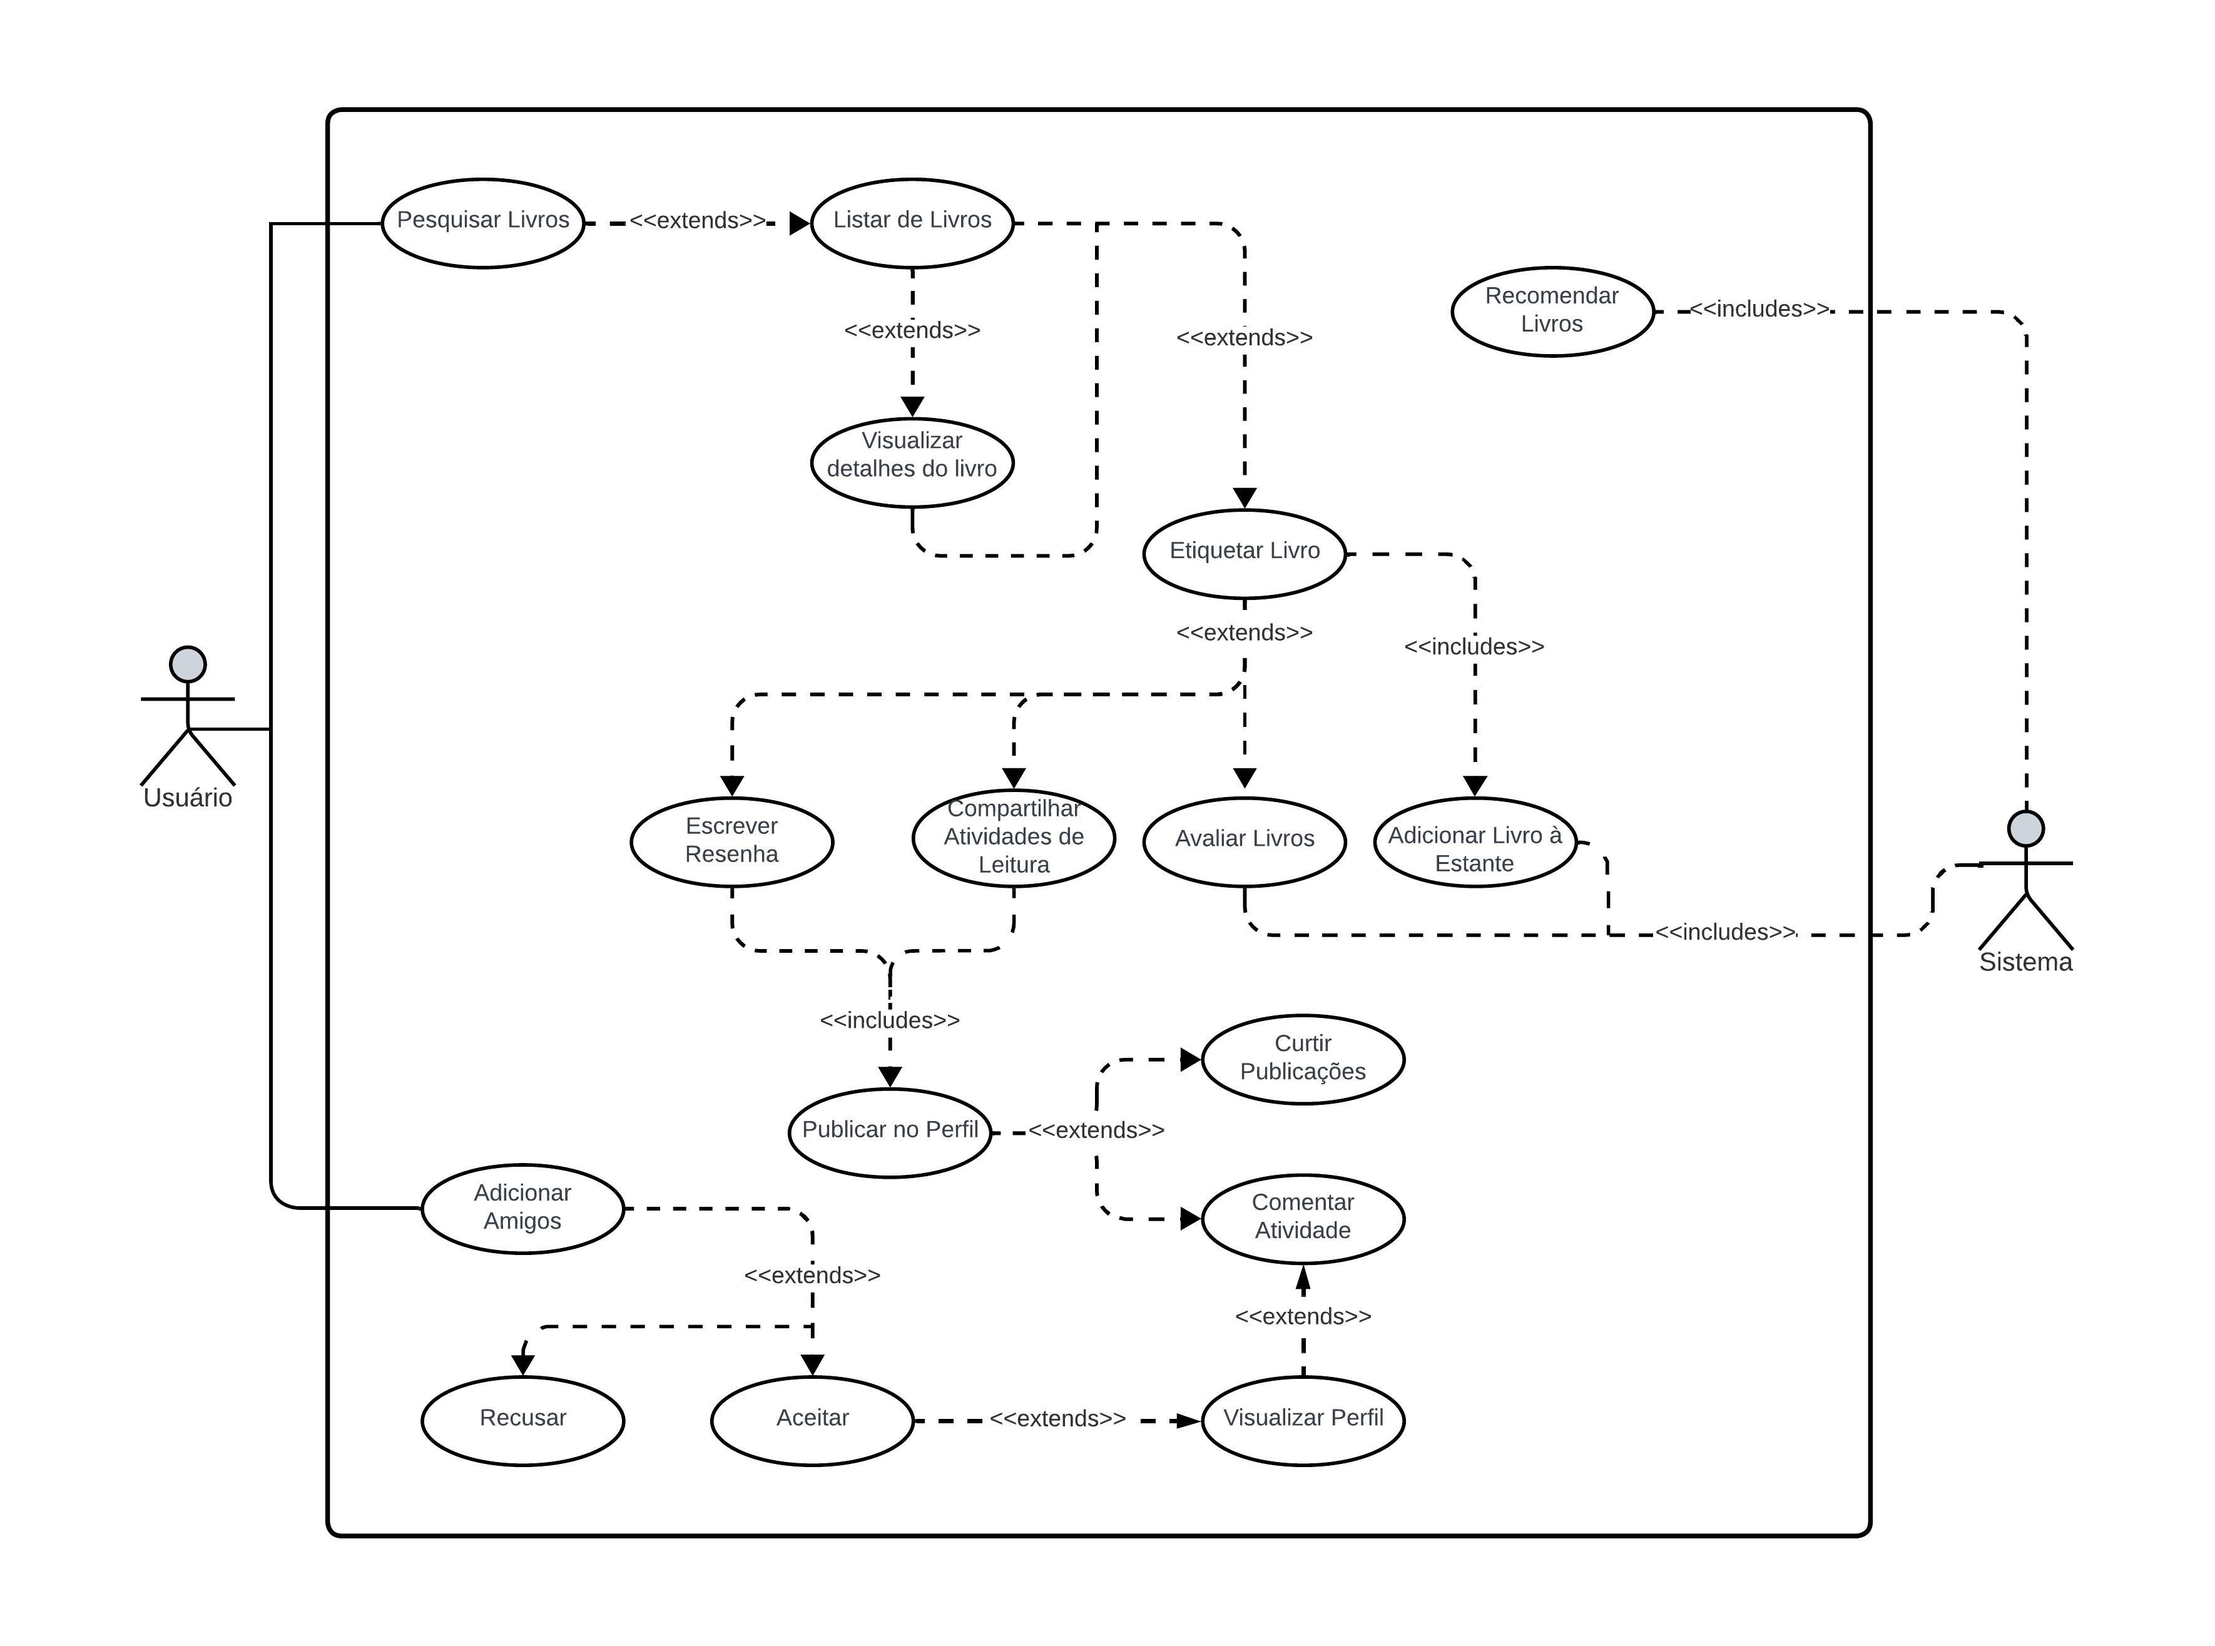
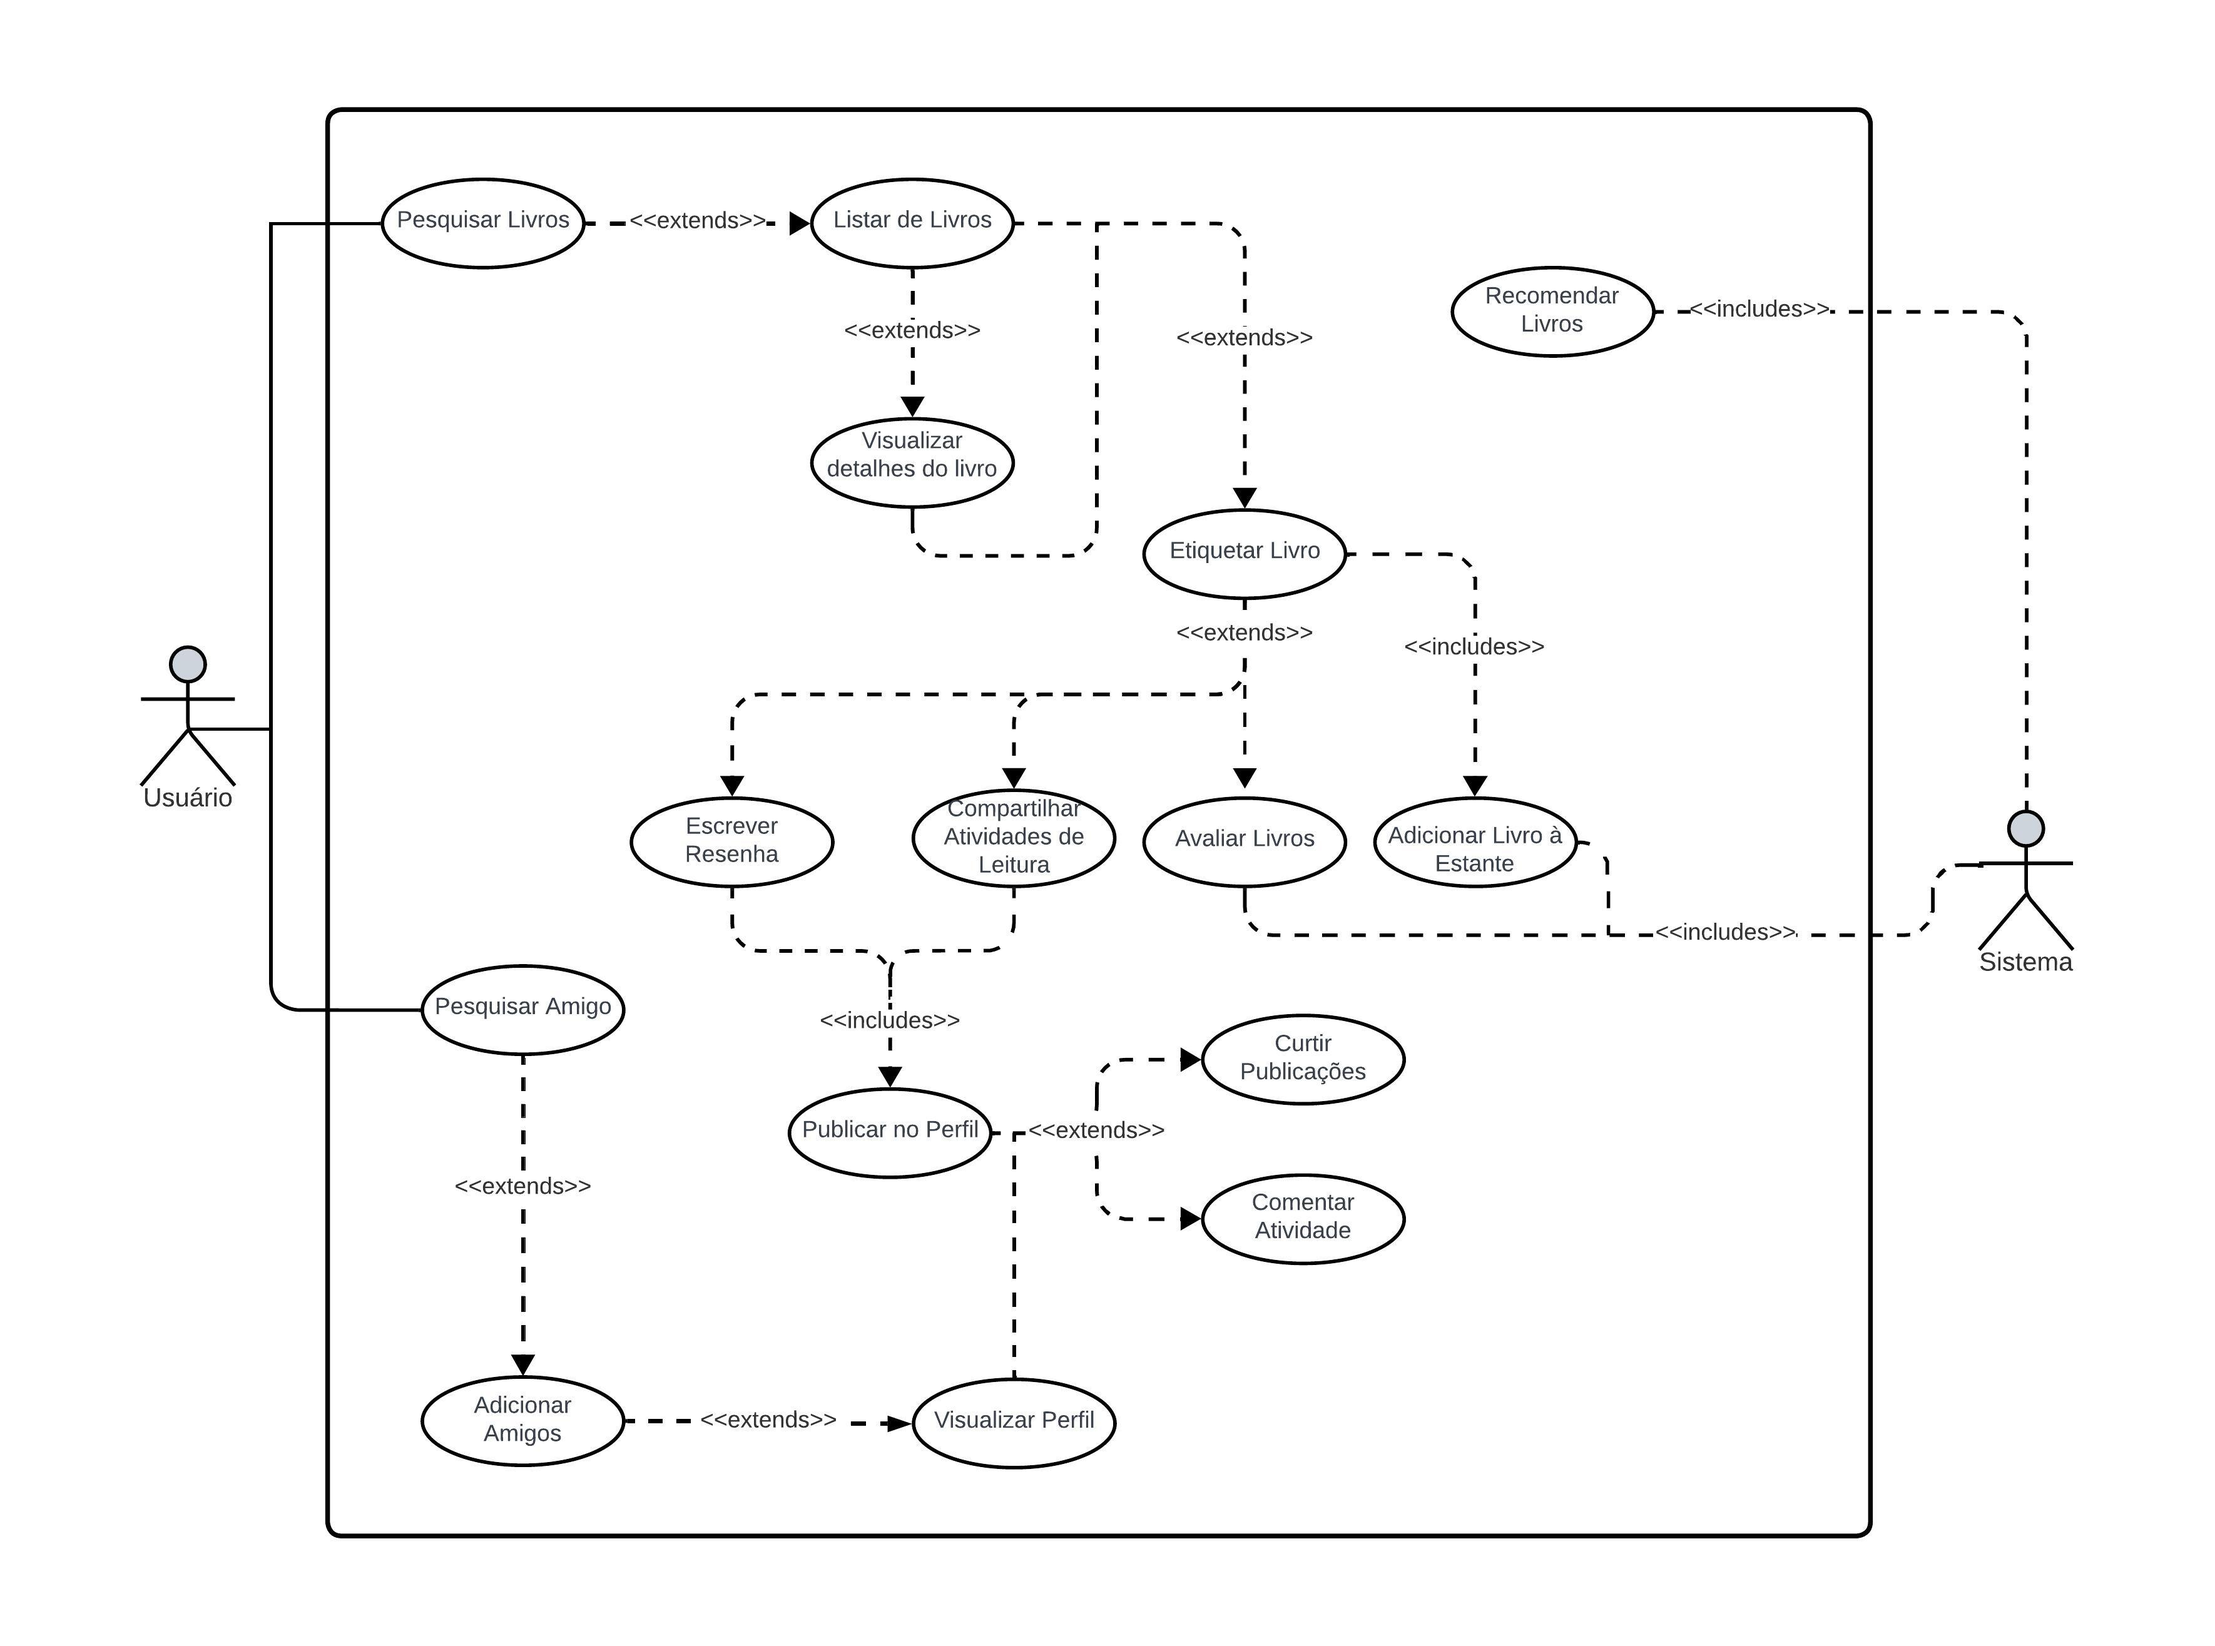
Atualizando tabelas do artefato de casos de uso

diff --git a/docs/modelagem/casos_de_uso.md b/docs/modelagem/casos_de_uso.md
@@ -9,7 +9,7 @@ Diagramas de casos de uso descrevem o que o sistema faz do ponto de vista do usu
 Utilizando o software de diagramação LucidChart, elaboramos os diagramas de casos de uso. Para uma melhor compreensão dos diagramas apresentados neste artefato, foi desenvolvida uma legenda, Figura 1, que esclarece o significado de cada elemento presente nos diagramas.
 
 <p align="center">
-  <img src="img/legenda.jpeg" alt="Legenda">
+  <img src="../img/legenda.jpeg" alt="Legenda">
 </p>
 <div style="text-align: center">
 <p>Figura 1 - Legenda diagramas. (Fonte: Jefferson França. 2023)</p>
@@ -42,8 +42,10 @@ Em um diagrama de casos de uso, um "caso de uso" representa uma funcionalidade o
 
 ## Casos de Uso
 
+Na Figura 2, é possível analisar o diagrama de casos de uso, no qual estão representadas as atividades mais relevantes e essenciais do aplicativo. As especificações detalhadas dos casos de uso podem ser encontradas nas tabelas de 1 a 5, apresentadas logo abaixo.
+
 <p align="center">
-  <img src="img/casos_de_uso.jpeg" alt="Casos de Uso">
+  <img src="../img/casos_de_uso.jpeg" alt="Casos de Uso">
 </p>
 <div style="text-align: center">
 <p>Figura 2 - Diagrama de casos de uso. (Fonte: Jefferson França. 2023)</p>
@@ -80,22 +82,85 @@ Em um diagrama de casos de uso, um "caso de uso" representa uma funcionalidade o
 | **Condição de entrada** | Selecionar livro na estante. |
 | **Fluxo principal** | <b>Fluxo 1 - FEP1 </b> <ol> <li> O usuário navega até seu perfil. <li> O usuário acessa sua estante. <li> O usuário seleciona um livro que possui a etiqueta marcada como "Lido". <li> O usuário clica "Resenha". <li> O usuário clica em "Comente sua leitura". <li> O usuário define um título da resenha e escreve sua resenha.  <li> O usuário publica sua resenha. </ol> |
 | **Fluxos alternativos** | <b>Fluxo 1 - FEP1 </b> <ol> <li> O usuário pesquisa um livro no aplicativo. <li> O usuário seleciona o livro desejado na lista de resultados de pesquisa. <li> O usuário define qual etiqueta ele vai atribuir ao livro. <li> O usuário define a etiqueta como "Lido". <li> O usuário avalia o livro por meio das estrelas. <li> O usuário clica em "Resenha". <li> O usuário clica em "Comente sua leitura". <li> O usuário publica sua resenha</ol> |
-| **Fluxos de exceção** | <b>Fluxo 1 - FE01 </b> <ol> <li> O usuário pesquisa um livro no aplicativo. <li> O livro não é encontrado pelo sistema </ol>
-| **Pós condições** |  |
+| **Fluxos de exceção** | <b>Fluxo 1 - FE01 </b> <ol> <li> O usuário navega até seu perfil. <li> O usuário acessa sua estante. <li> O usuário seleciona um livro que possui a etiqueta marcada como "Lendo". </ol>
+| **Pós condições** | O usuário tem a resenha do livro publicada em seu perfil |
 | **Data da criação** | 22/10/2023 |
-| **Rastreabilidade** |  |
+| **Rastreabilidade** | IN04, IN05, IN01, OB01 |
 
 <div style="text-align: center">
-<p> Tabela 1: Especificação do caso de uso: Adicionar Livro à Estante. (Fonte: Jefferson França. 2023).</p>
+<p> Tabela 2: Especificação do caso de uso: Escrever Resenha. (Fonte: Jefferson França. 2023).</p>
+</div>
+
+### UC03. Adicionar Amigo
+
+| UC03 | Adicionar Amigo |
+| -: | :- |
+| **Atores** | Usuário |
+| **Frequência de uso** | Alta |
+| **Descrição** | Este caso de uso representa a ação de um usuário adicionar um amigo a sua lista de amigos. |
+| **Requisitos** | Ter perfil cadastrado. |
+| **Condição de entrada** | Encontrar amigo. |
+| **Fluxo principal** | <b>Fluxo 1 - FEP1 </b> <ol> <li> O usuário pesquisa o perfil do amigo. <li> O usuário visita o perfil do amigo. <li> O usuário clica nos três pontos presentes no perfil do amigo. <li> O usuário clica em "Amigos?". <li> O usuário confirma que deseja enviar uma solicitação de amizade </ol> |
+| **Fluxos alternativos** | <b>Fluxo 1 - FEP1 </b> <ol> <li> O usuário encontra o perfil de um amigo na página inicial. <li> O usuário acessa o perfil do amigo. <li> O usuário clica nos três pontos presentes no perfil do amigo. <li> O usuário clica em "Amigos?". <li> O usuário confirma que deseja enviar uma solicitação de amizade</ol> |
+| **Fluxos de exceção** | <b>Fluxo 1 - FE01 </b> <ol> <li> O usuário pesquisa o perfil do amigo. <li> O usuário digita o nome do amigo errado. <li> O usuário não encontra o amigo. </ol>
+| **Pós condições** | O usuário tem seu amigo adicionado a sua lista de amigos |
+| **Data da criação** | 22/10/2023 |
+| **Rastreabilidade** | IN01, IN11, IN13 |
+
+<div style="text-align: center">
+<p> Tabela 3: Especificação do caso de uso: Adicionar Amigo. (Fonte: Jefferson França. 2023).</p>
+</div>
+
+### UC04. Compartilhar Atividades de Leitura
+
+| UC04 | Compartilhar Atividades de Leitura |
+| -: | :- |
+| **Atores** | Usuário |
+| **Frequência de uso** | Alta |
+| **Descrição** | Este caso de uso representa a ação de um usuário atualizar seu histórico de leitura. |
+| **Requisitos** | Ter um livro com a etiqueta "Lendo". |
+| **Condição de entrada** | Etiquetar livro como "Lendo". |
+| **Fluxo principal** | <b>Fluxo 1 - FP01 </b> <ol> <li> O usuário acessa o seu perfil. <li> O usuário acessa sua estante. <li> O usuário clica na etiqueta do livro. <li> O usuário clica em "Novo". <li> O usuário informa o que está achando da leitura. <li> O usuário informa qual página ele está. <li> O usuário salva. <li> Atividade de leitura é compartilhada no perfil do usuário. </ol> |
+| **Fluxos alternativos** | <b>Fluxo 1 - FA01 </b> <ol> <li> O usuário pesquisa um livro no aplicativo. <li> O usuário seleciona o livro desejado na lista de resultados de pesquisa. <li> O usuário define qual etiqueta como "Lendo". <li> O usuário clica em "Histórico". <li> O usuário clica em "Novo". <li> O usuário informa o que está achando do livro. <li> O usuário informa em qual página ele está. <li> O usuário salva. <li> A atividade de leitura é compartilhada no perfil do usuário. </ol> |
+| **Fluxos de exceção** | Não há.
+| **Pós condições** | O usuário tem sua atividade de leitura compartilhada |
+| **Data da criação** | 22/10/2023 |
+| **Rastreabilidade** | OB03, IN07 |
+
+<div style="text-align: center">
+<p> Tabela 4: Especificação do caso de uso: Compartilhar atividades de leitura. (Fonte: Jefferson França. 2023).</p>
+</div>
+
+### UC05. Comentar publicação
+
+| UC05 | Comentar publicação |
+| -: | :- |
+| **Atores** | Usuário |
+| **Frequência de uso** | Baixa |
+| **Descrição** | Este caso de uso representa a ação de um usuário comentar a atividade de algum outro usuário. |
+| **Requisitos** | Ser cadastrado. |
+| **Condição de entrada** | Possuir Perfil. |
+| **Fluxo principal** | <b>Fluxo 1 - FP01 </b> <ol> <li> O usuário acessa a página principal. <li> O usuário rola a página até encontrar uma publicação do seu interesse. <li> O usuário clica em comentar. <li> O usuário escreve seu comentário. <li> O usuário envia o comentário.</ol> |
+| **Fluxos alternativos** | <b>Fluxo 1 - FA01 </b> <ol> <li> O usuário acessa o perfil do amigo. <li> O usuário vê uma publicação que gostou. <li> O usuário clica em comentar. <li> O usuário escreve seu comentário. <li> O usuário envia o comentário. </ol> |
+| **Fluxos de exceção** | Não há.
+| **Pós condições** | O usuário tem seu comentário publicado na postagem. |
+| **Data da criação** | 22/10/2023 |
+| **Rastreabilidade** | OB05 |
+
+<div style="text-align: center">
+<p> Tabela 5: Especificação do caso de uso: Comentar publicação. (Fonte: Jefferson França. 2023).</p>
 </div>
 
 ## Bibliografia
 
-<a id="aa" href="#a">[1]</a> IMAGEM. Disponível em: [Imagem](https://pt.wikipedia.org/wiki/Imagem). Acesso em: 05 de Setembro de 2023.
+[1] DevMedia. O que é UML e Diagramas de Caso de Uso: Introdução Prática à UML. 2012. DevMedia. Disponível em: https://www.devmedia.com.br/o-que-e-uml-e-diagramas-de-caso-de-uso-introducao-pratica-a-uml/23408. Acessado em 24 de outubro de 2023.
+
+[2] SERRANO, Maurício; SERRANO, Milene. Requisitos - Aula 11. Disponível em: https://aprender3.unb.br/pluginfile.php/2692803/mod_resource/content/1/Requisitos%20-%20Aula%20013a.pdf. Acessado em 24 de outubro de 2023.
 
 ## Histórico de Versão
 
 | Versão | Data de execução | Data de revisão |      Descrição      |                   Autor(es)                   |                  Revisor(es)                  |
 | :----: | :--------------: | :-------------: | :-----------------: | :-------------------------------------------: | :-------------------------------------------: |
 | `1.0`  |    23/10/2023    |   24/10/2023    | Criação do artefato | [Jefferson França](https://github.com/Frans6) | [Yago Passos](https://github.com/yagompassos) |
+| `1.1`  |    24/10/2023    |   24/10/2023    | Atualização das tabelas | [Jefferson França](https://github.com/Frans6) | [Yago Passos](https://github.com/yagompassos) |
 
